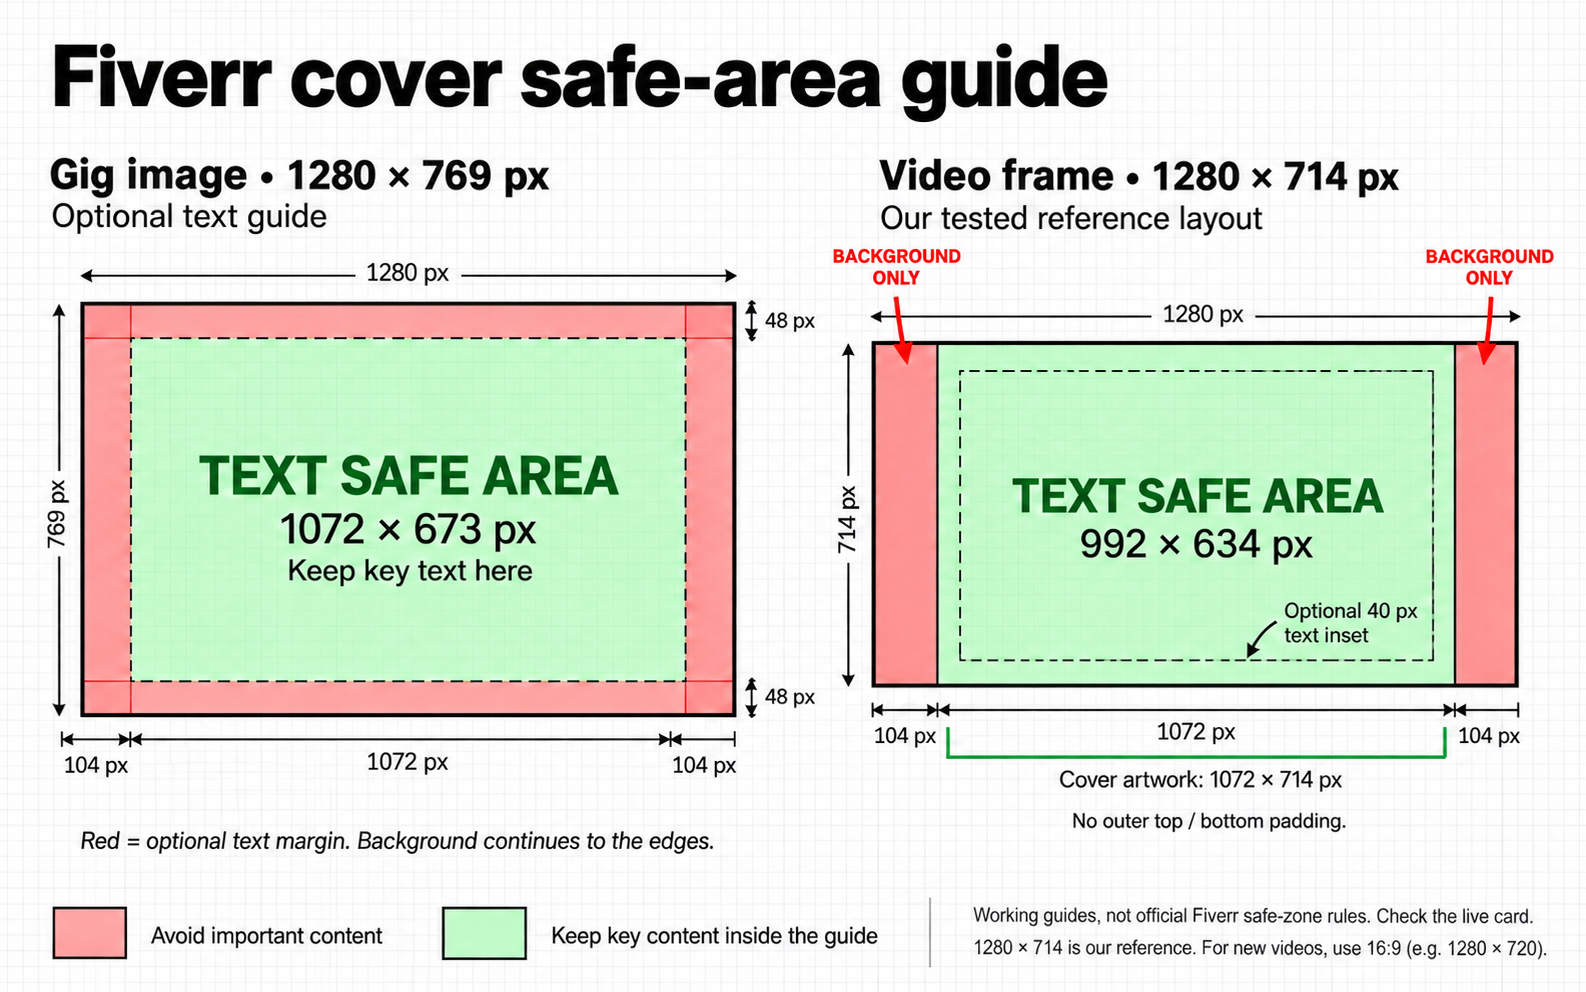
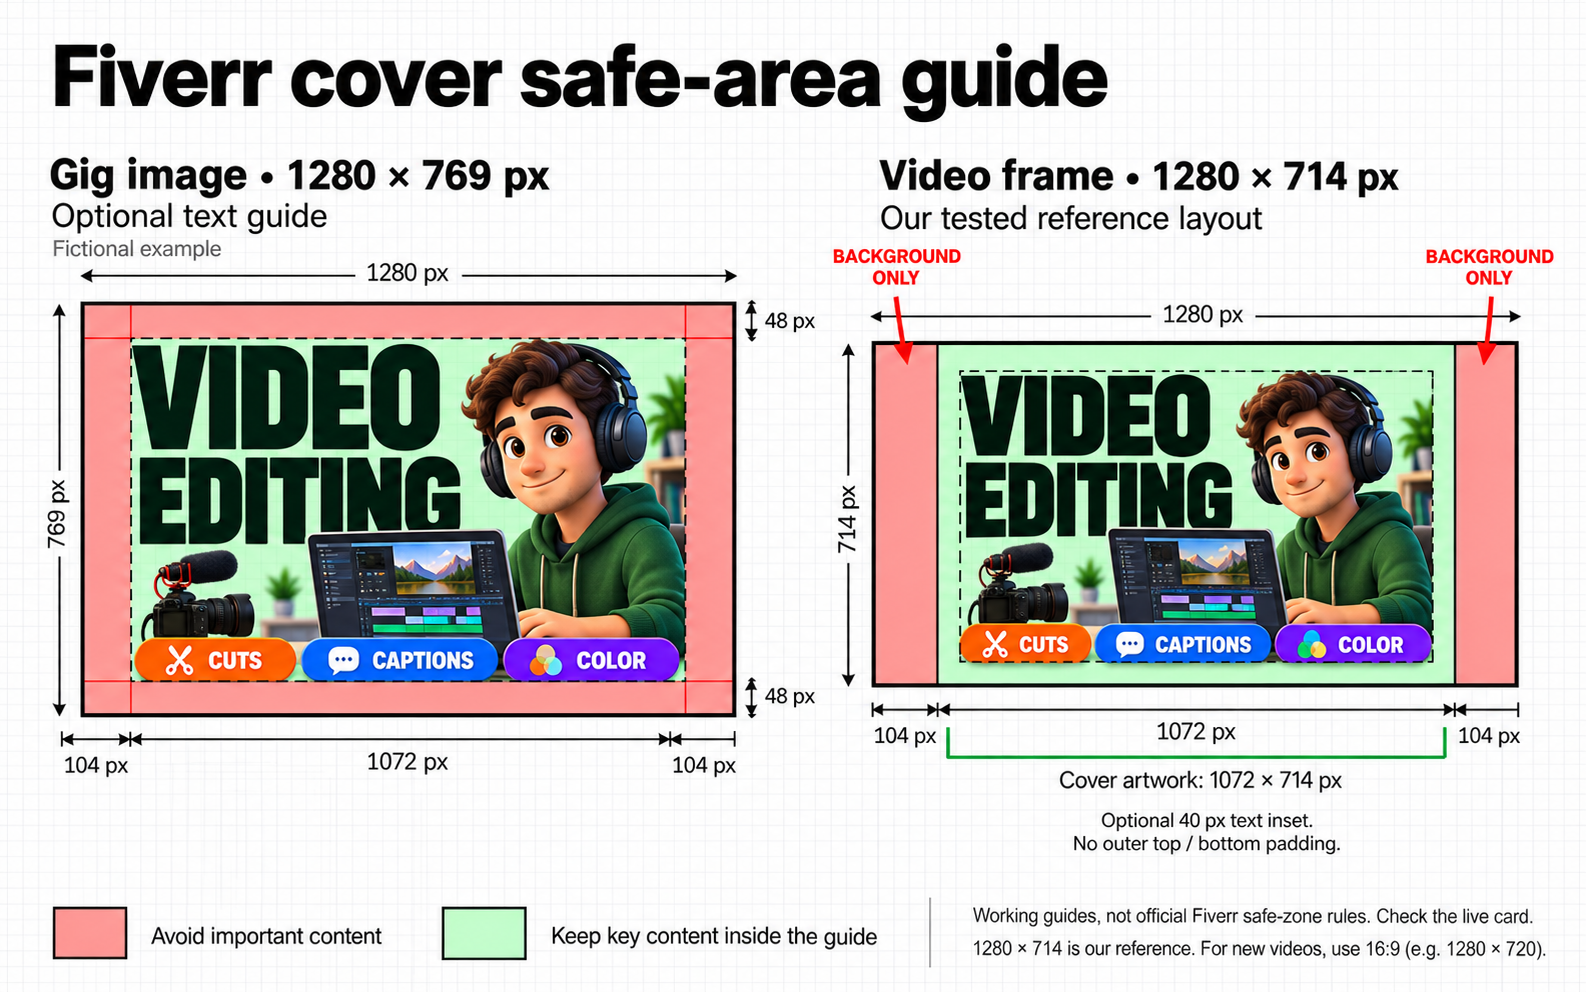
Show fictional Gig artwork filling the safe-area boundaries

diff --git a/README.md b/README.md
@@ -2,7 +2,7 @@
 
 An English Codex skill for preparing Fiverr Gig images and video cover frames without stretching artwork.
 
-![Fiverr image and video cover guides with red margins, green content areas, and dimension arrows](assets/safe-zone-comparison.png)
+![Fictional video-editing Gig with headline, illustrations, and service labels extending to the dashed safe-area boundaries; red margins remain clear](assets/safe-zone-comparison.png)
 
 Red marks areas to keep important content out of; green marks the suggested content area. These are working guides, not official Fiverr crop boundaries. The image's text margins and the video's extra 40 px text inset are optional.
 
